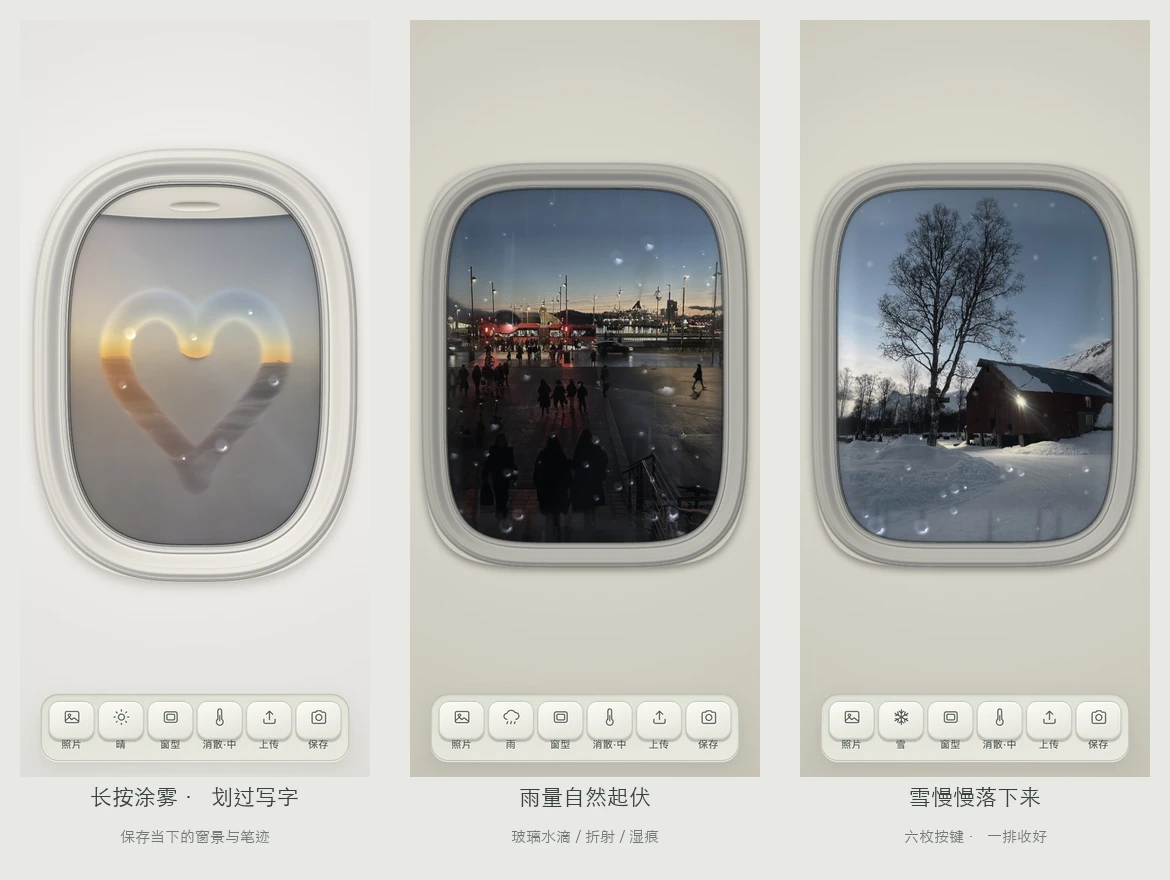
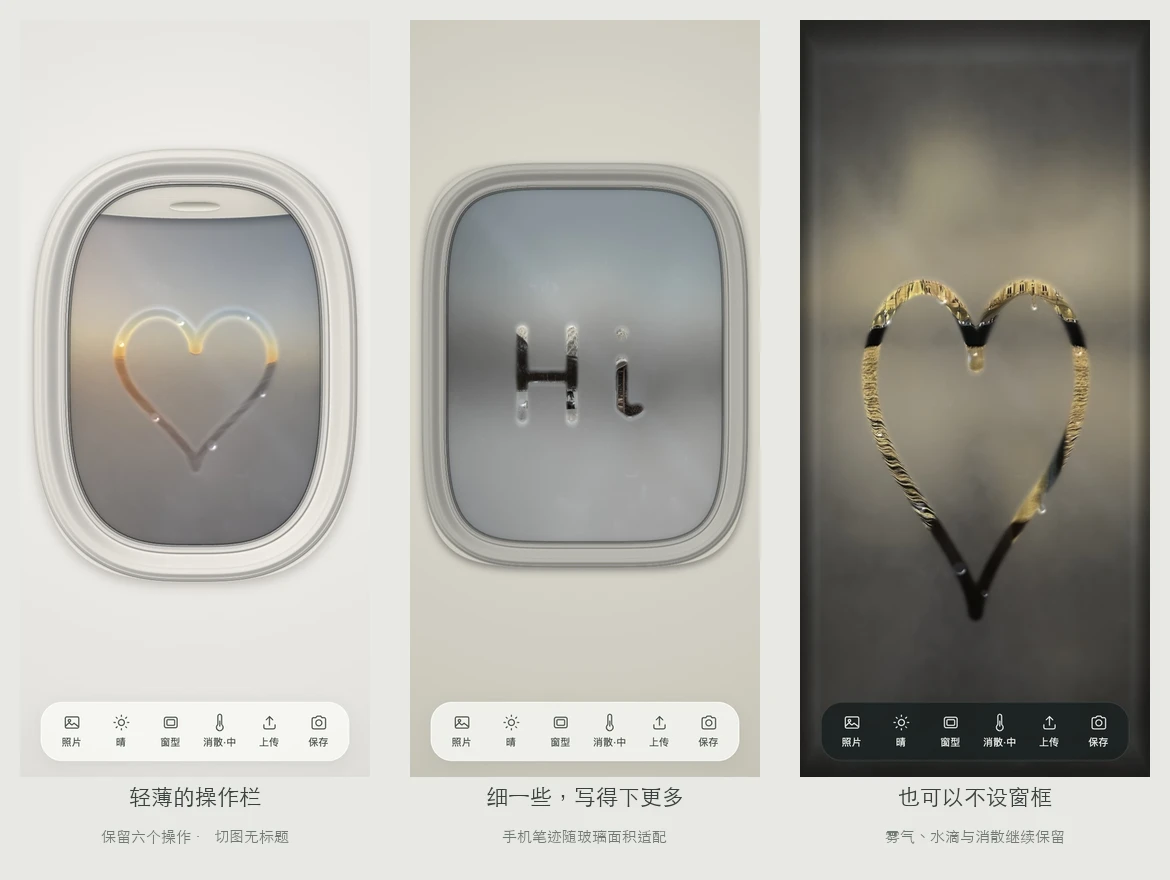
Refine the minimal toolbar and reduce touch writing width

diff --git a/css/style.css b/css/style.css
@@ -5,11 +5,10 @@ body {
   position:fixed; left:0; top:0; right:0; bottom:0;
   font-family:-apple-system,BlinkMacSystemFont,"Segoe UI","PingFang SC","Hiragino Sans GB","Microsoft YaHei",sans-serif;
   -webkit-user-select:none; user-select:none; -webkit-tap-highlight-color:transparent; -webkit-touch-callout:none; touch-action:none; overscroll-behavior:none;
-  --ui-text:#e1e3dc; --ui-muted:#c0c6be; --ui-surface:#343c3b; --ui-border:rgba(0,0,0,.4);
-  --key-top:#505954; --key-bottom:#373f3b; --key-light:rgba(255,255,255,.16); --tray-top:#303936; --tray-bottom:#202925;
+  --ui-text:#e7ece9; --ui-muted:#bbc5bf; --ui-surface:rgba(24,31,30,.82); --ui-border:rgba(235,244,237,.13); --press:rgba(242,248,242,.10);
 }
-body[data-window="2"],body[data-window="4"] { --ui-text:#50574f; --ui-muted:#72776d; --ui-surface:#e5e5dd; --ui-border:rgba(83,86,71,.26); --key-top:#faf9f3; --key-bottom:#e4e3d9; --key-light:rgba(255,255,255,.94); --tray-top:#ddded4; --tray-bottom:#e9e9e0; }
-body.cabin-dark { --ui-text:#d9ddd4; --ui-muted:#b7c0b5; --ui-surface:#343c3b; --ui-border:rgba(0,0,0,.4); --key-top:#505954; --key-bottom:#373f3b; --key-light:rgba(255,255,255,.16); --tray-top:#303936; --tray-bottom:#202925; }
+body[data-window="2"],body[data-window="4"] { --ui-text:#465049; --ui-muted:#69746b; --ui-surface:rgba(249,250,246,.80); --ui-border:rgba(255,255,255,.66); --press:rgba(49,68,53,.07); }
+body.cabin-dark { --ui-text:#e7ece9; --ui-muted:#bbc5bf; --ui-surface:rgba(24,31,30,.82); --ui-border:rgba(235,244,237,.13); --press:rgba(242,248,242,.10); }
 #stage,#glass,#flat,#windowFrame { position:absolute; left:0; top:0; width:100%; height:100%; }
 #stage { overflow:hidden; touch-action:none; }
 #glass,#flat { display:block; touch-action:none; }
@@ -24,18 +23,17 @@ body.cabin-dark { --ui-text:#d9ddd4; --ui-muted:#b7c0b5; --ui-surface:#343c3b; -
 #hint b { display:block; font-size:11px; font-weight:400; color:rgba(234,242,238,.67); letter-spacing:.03em; }
 #label { position:absolute; left:0; right:0; top:6%; text-align:center; padding:0 16px; pointer-events:none; font-size:12px; letter-spacing:.18em; color:var(--ui-muted); text-shadow:0 1px 10px rgba(0,0,0,.10); opacity:0; transition:opacity .18s; }
 #toast { position:absolute; left:50%; bottom:116px; bottom:calc(116px + env(safe-area-inset-bottom)); transform:translateX(-50%); width:280px; max-width:84%; text-align:center; pointer-events:none; font-size:12px; line-height:1.7; padding:10px 16px; color:var(--ui-text); background:var(--ui-surface); border:1px solid var(--ui-border); border-radius:16px; box-shadow:0 6px 24px rgba(18,25,20,.10); opacity:0; transition:opacity .2s; }
-/* Six small moulded keys in one recessed rail. */
+/* One quiet toolbar: shared surface, fine icons, generous touch targets. */
 #controls { position:absolute; left:50%; bottom:18px; bottom:calc(18px + env(safe-area-inset-bottom)); transform:translateX(-50%); width:344px; max-width:calc(100% - 20px); pointer-events:none; }
 button { -webkit-appearance:none; appearance:none; font:inherit; cursor:pointer; touch-action:manipulation; }
-#dock { display:flex; align-items:center; padding:7px 6px 4px; border-radius:20px; border:1px solid var(--ui-border); background:linear-gradient(175deg,var(--tray-top),var(--tray-bottom)); box-shadow:inset 0 1px 2px rgba(53,57,45,.12),0 1px 0 var(--key-light),0 8px 20px rgba(27,31,22,.10); pointer-events:auto; }
-.btn { position:relative; display:flex; flex:1; flex-direction:column; align-items:center; justify-content:flex-start; min-width:44px; height:62px; padding:8px 0 0; margin:0 2px; border:0; background:transparent; color:var(--ui-text); outline:none; }
-.btn:before { content:""; position:absolute; top:0; left:0; right:0; height:41px; border:1px solid var(--ui-border); border-radius:12px; background:linear-gradient(165deg,var(--key-top),var(--key-bottom)); box-shadow:inset 0 1px 1px var(--key-light),inset 0 -1px 1px rgba(58,61,48,.09),0 2px 2px rgba(44,48,36,.19),0 3px 0 rgba(72,76,60,.11); transition:transform .1s,box-shadow .1s; }
-.btn span { position:relative; display:block; font-size:11px; line-height:14px; margin-top:13px; white-space:nowrap; letter-spacing:.04em; text-shadow:0 1px var(--key-light); }
-button svg { position:relative; width:20px; height:20px; fill:none; stroke:currentColor; stroke-width:1.45; stroke-linecap:round; stroke-linejoin:round; flex-shrink:0; transition:transform .1s; filter:drop-shadow(0 1px 0 var(--key-light)); }
-.btn:active:before { transform:translateY(2px); box-shadow:inset 0 1px 3px rgba(44,48,36,.18),0 1px 0 var(--key-light); }
-.btn:active svg { transform:translateY(2px); }
+#dock { display:flex; align-items:center; padding:5px 6px; border-radius:24px; border:1px solid var(--ui-border); background:var(--ui-surface); box-shadow:0 4px 18px rgba(25,35,27,.07); -webkit-backdrop-filter:blur(16px); backdrop-filter:blur(16px); pointer-events:auto; }
+.btn { display:flex; flex:1; flex-direction:column; align-items:center; justify-content:center; min-width:44px; height:54px; padding:4px 0; margin:0; border:0; border-radius:18px; background:transparent; color:var(--ui-text); outline:none; transition:background .16s,transform .12s; }
+.btn span { display:block; font-size:11px; line-height:16px; margin-top:4px; white-space:nowrap; letter-spacing:.01em; }
+button svg { width:20px; height:20px; fill:none; stroke:currentColor; stroke-width:1.5; stroke-linecap:round; stroke-linejoin:round; flex-shrink:0; }
+.btn:active { background:var(--press); transform:scale(.94); }
 .btn[aria-busy="true"] { opacity:.55; }
-button:focus-visible { outline:2px solid #879981; outline-offset:4px; border-radius:12px; }
+button:focus-visible { outline:2px solid #8ba084; outline-offset:2px; border-radius:14px; }
+@media (hover:hover) { .btn:hover { background:var(--press); } }
 #file { display:none; }
 /* The frozen mobile picture can be long-pressed using the browser's native menu. */
 #savePreview[hidden] { display:none; }
@@ -44,12 +42,12 @@ button:focus-visible { outline:2px solid #879981; outline-offset:4px; border-rad
 .save-card img { display:block; max-width:100%; width:auto; height:auto; min-height:0; max-height:calc(100vh - 180px); max-height:calc(100dvh - 180px - env(safe-area-inset-top) - env(safe-area-inset-bottom)); object-fit:contain; border-radius:10px; -webkit-touch-callout:default; -webkit-user-select:auto; user-select:auto; touch-action:auto; }
 .save-card p { margin:12px 0 10px; font-size:12px; line-height:1.5; text-align:center; }
 .save-close { position:absolute; z-index:1; right:16px; top:16px; width:44px; height:44px; border:1px solid rgba(50,55,44,.2); border-radius:50%; background:#f2f2ea; color:#525b50; box-shadow:0 2px 8px rgba(0,0,0,.14); font-size:26px; }
-.save-action { height:44px; flex-shrink:0; min-width:140px; border:1px solid #b7bcae; border-radius:12px; background:linear-gradient(#fafbf5,#dedfd4); color:#495344; box-shadow:inset 0 1px 0 white,0 2px 2px rgba(40,50,35,.12); font-size:13px; }
+.save-action { height:44px; flex-shrink:0; min-width:140px; border:1px solid #b7bcae; border-radius:12px; background:#e4e9e1; color:#495344; box-shadow:none; font-size:13px; }
 .save-action:disabled { opacity:.5; }
 @media (max-height:500px) and (orientation:landscape) {
   #controls { left:auto; right:12px; right:calc(12px + env(safe-area-inset-right)); bottom:auto; top:50%; width:116px; max-width:none; transform:translateY(-50%); }
-  #dock { flex-wrap:wrap; padding:8px 6px 3px; border-radius:18px; }
-  .btn { flex:none; width:calc(50% - 4px); margin-bottom:5px; }
+  #dock { flex-wrap:wrap; padding:6px; border-radius:22px; }
+  .btn { flex:none; width:50%; height:54px; }
   #label { right:142px; }
   #hint b { display:none; }
   #toast { left:calc(50% - 71px); bottom:16px; max-width:50%; }
@@ -57,4 +55,4 @@ button:focus-visible { outline:2px solid #879981; outline-offset:4px; border-rad
   .save-card img { max-height:calc(100vh - 56px); max-height:calc(100dvh - 56px - env(safe-area-inset-bottom) - env(safe-area-inset-top)); max-width:65vw; }
   .save-card p { display:none; }.save-action { min-width:80px; margin-left:12px; }
 }
-@media (prefers-reduced-motion:reduce) { #hint,#toast,#label,button,.btn:before,button svg { transition:none !important; } }
+@media (prefers-reduced-motion:reduce) { #hint,#toast,#label,button { transition:none !important; } }

diff --git a/js/app.js b/js/app.js
@@ -2035,7 +2035,11 @@ function updateBreath(dt) {
 function brushRadius() {
   var m = Math.min(S.cssW, S.cssH);
   /* 笔宽按书写调校：中心一擦即清，外缘仍留潮湿痕迹 */
-  if (S.pointerType === 'touch') return clamp(m * 0.04, 15, 26);
+  if (S.pointerType === 'touch') {
+    // Match the writing area, not the finger's contact patch. Keep mouse input unchanged.
+    var paneSize = aperture && aperture.type ? Math.min(aperture.w, aperture.h) : m;
+    return clamp(paneSize * 0.023, 5, 8.5);
+  }
   return clamp(m * 0.017, 12, 22);
 }
 
@@ -2251,12 +2255,17 @@ function showLabel(msg) {
   labelTimer = setTimeout(function () { labelEl.style.opacity = '0'; }, 1600);
 }
 
+function clearLabel() {
+  if (labelTimer) clearTimeout(labelTimer);
+  labelTimer = null; labelEl.textContent = ''; labelEl.style.opacity = '0';
+}
+
 function selectScene(index) {
   S.sceneIndex = index;
   S.customImg = null;
   loadScene(index);
   buildBackground();
-  showLabel(SCENES[index].name);
+  clearLabel();
   loadScene((index + 1) % SCENES.length);
   hideHint();
 }
@@ -2431,7 +2440,7 @@ function bindButtons() {
         try {
           S.customImg = img;
           buildBackground();
-          showLabel('自定义照片');
+          clearLabel();
         } catch (err) { throw makeDiagError('BG_UPLOAD', err); }
         try { URL.revokeObjectURL(url); } catch (e) {}
       };

diff --git a/docs/QA.md b/docs/QA.md
@@ -1,5 +1,17 @@
 # 验收记录
 
+## 2026-11-04 · v0.7.1
+
+- 操作栏恢复统一的轻薄圆角表面、细线图标与简短标签，撤下单独凸起的实体键帽；保留六个功能、横屏两列、暗色适配与至少 44×54 CSS px 的触点。
+- 仅调细手指笔刷：按可见玻璃短边的 2.3% 计算半径，限制在 5–8.5 CSS px。390×844 飞机窗半径从 15.6px 改为约 6.46px；窄屏约 5.81px、横屏 5px、无框 8.5px。鼠标公式完全保留，1440×900 半径仍为 15.3px。
+- 切换预设照片和上传照片均不再弹出顶部标题，同时取消已有标题定时器并清除文字。天气 / 窗型 / 消散提示保留。
+
+本机 Chrome headless + Metal，以真实触摸事件画相同直线：390×844 的清晰笔画宽度（雾密度低于 0.12 的截面）从约 32.4px 缩到 11.9px。两笔相距 22px 时，中间雾密度从旧版近 0 变为约 0.56，笔画能分开；桌面鼠标的新旧宽度均为约 32.2px。此为本次截面的测量，不代表所有图形的固定像素宽度。
+
+通过：390×844、320×568、844×390、1440×900、390×844 Canvas2D；触点尺寸 / 可达性、连续细线 / 相邻笔画、八张照片无标题、上传无标题、手机保存预览和桌面 PNG 下载。约 60fps，手机 CPU 2.5ms、窄屏 2.0ms、横屏 2.4ms、桌面 5.2ms、Canvas2D 3.0ms；均为本机浏览器仿真，真机尚未实测。零页面或控制台错误。雨雪、雾气和水滴模拟、消散速度及保存逻辑没有改动。
+
+---
+
 ## 2026-11-04 · v0.7.0
 
 - 移除麦克风及独立哈气按钮。长按玻璃约 0.7 秒进入涂雾，继续拖动保持涂雾；松手后新一笔擦字。普通写字途中的停顿不再自动变成哈气。空格保留，取消触摸 / 失焦 / 隐藏页面 / 旋转都会结束输入。

diff --git a/README.md b/README.md
@@ -1,6 +1,6 @@
 # 哈气 · Mistpane
 
-![手动涂雾、雨雪与拟物按键](docs/preview.webp)
+![手机细笔迹与简洁工具栏](docs/preview.webp)
 
 > 窗外的灯还亮着。在玻璃上，写一个字。
 
@@ -18,7 +18,7 @@
 - 「上传」可以使用自己的照片，仅在当前浏览器内处理。
 - 「保存」定格当下的窗景、雾字和水滴，导出不带操作按钮的 PNG。电脑直接下载；手机打开图片预览，可长按保存，或使用系统分享 / 下载。
 
-六枚奶白色按键收在底部一排；手机横屏变为右侧两列，给玻璃留出书写空间。全部操作使用触摸或鼠标，不请求麦克风。
+六个操作收在轻薄的底部工具栏里；手机横屏变为右侧两列。触摸笔迹随玻璃面积适配，细一些，能留下更多书写空间。全部操作使用触摸或鼠标，不请求麦克风。
 
 ## 本地运行
 
